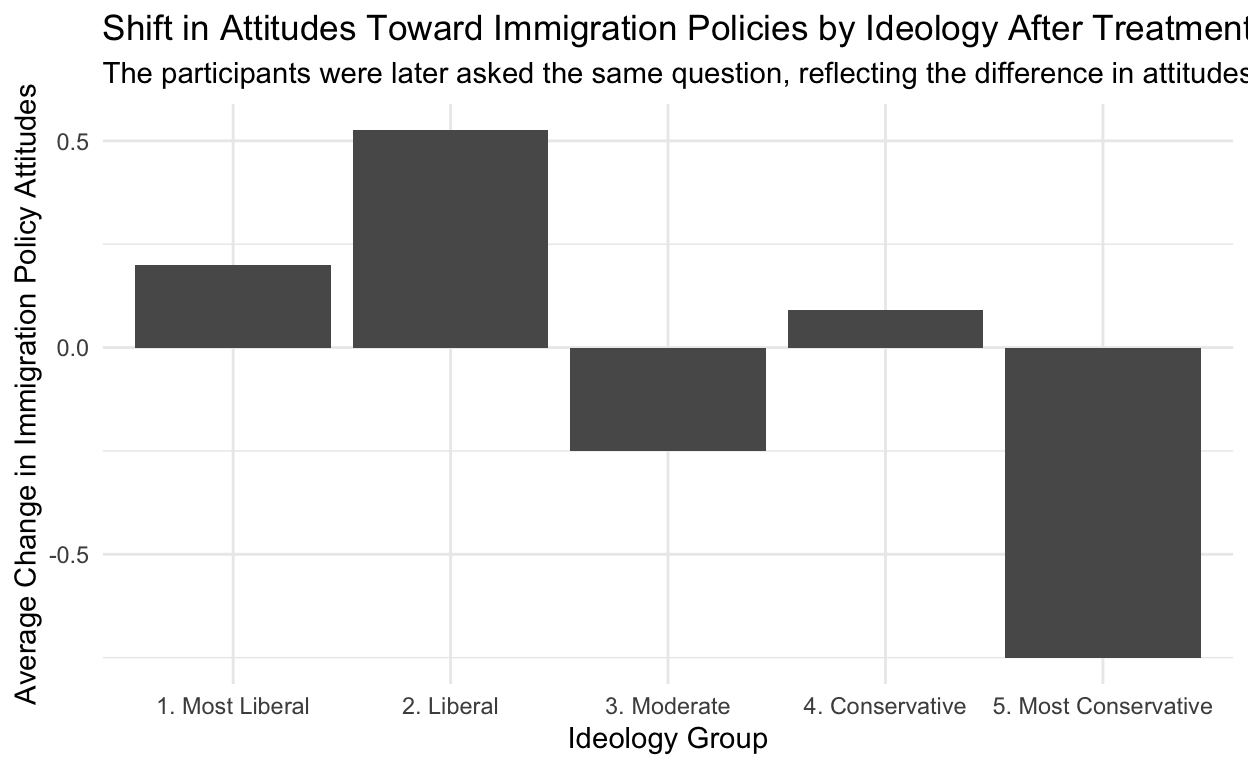
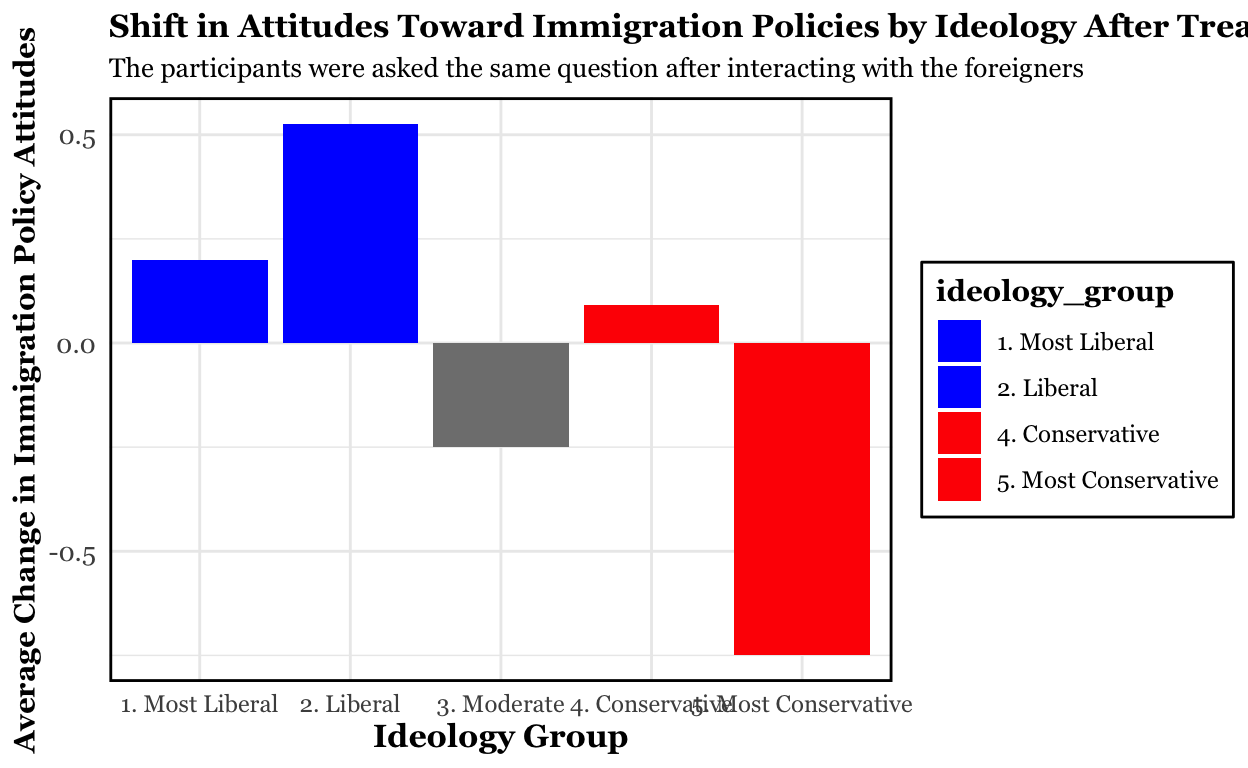
final project updates

diff --git a/index.html b/index.html
@@ -115,7 +115,7 @@ code span.wa { color: #5e5e5e; font-style: italic; } /* Warning */
   <!--/radix_placeholder_rmarkdown_metadata-->
   
   <script type="text/json" id="radix-resource-manifest">
-  {"type":"character","attributes":{},"value":["index_files/anchor-4.2.2/anchor.min.js","index_files/bowser-1.9.3/bowser.min.js","index_files/distill-2.2.21/template.v2.js","index_files/figure-html5/unnamed-chunk-10-1.png","index_files/figure-html5/unnamed-chunk-4-1.png","index_files/figure-html5/unnamed-chunk-5-1.png","index_files/figure-html5/unnamed-chunk-6-1.png","index_files/figure-html5/unnamed-chunk-7-1.png","index_files/figure-html5/unnamed-chunk-8-1.png","index_files/figure-html5/unnamed-chunk-9-1.png","index_files/header-attrs-2.17/header-attrs.js","index_files/header-attrs-2.28/header-attrs.js","index_files/header-attrs-2.29/header-attrs.js","index_files/jquery-3.6.0/jquery-3.6.0.js","index_files/jquery-3.6.0/jquery-3.6.0.min.js","index_files/jquery-3.6.0/jquery-3.6.0.min.map","index_files/popper-2.6.0/popper.min.js","index_files/tippy-6.2.7/tippy-bundle.umd.min.js","index_files/tippy-6.2.7/tippy-light-border.css","index_files/tippy-6.2.7/tippy.css","index_files/tippy-6.2.7/tippy.umd.min.js","index_files/webcomponents-2.0.0/webcomponents.js"]}
+  {"type":"character","attributes":{},"value":["index_files/anchor-4.2.2/anchor.min.js","index_files/bowser-1.9.3/bowser.min.js","index_files/distill-2.2.21/template.v2.js","index_files/figure-html5/unnamed-chunk-10-1.png","index_files/figure-html5/unnamed-chunk-14-1.png","index_files/figure-html5/unnamed-chunk-4-1.png","index_files/figure-html5/unnamed-chunk-5-1.png","index_files/figure-html5/unnamed-chunk-6-1.png","index_files/figure-html5/unnamed-chunk-7-1.png","index_files/figure-html5/unnamed-chunk-8-1.png","index_files/figure-html5/unnamed-chunk-9-1.png","index_files/header-attrs-2.17/header-attrs.js","index_files/header-attrs-2.28/header-attrs.js","index_files/header-attrs-2.29/header-attrs.js","index_files/jquery-3.6.0/jquery-3.6.0.js","index_files/jquery-3.6.0/jquery-3.6.0.min.js","index_files/jquery-3.6.0/jquery-3.6.0.min.map","index_files/popper-2.6.0/popper.min.js","index_files/tippy-6.2.7/tippy-bundle.umd.min.js","index_files/tippy-6.2.7/tippy-light-border.css","index_files/tippy-6.2.7/tippy.css","index_files/tippy-6.2.7/tippy.umd.min.js","index_files/webcomponents-2.0.0/webcomponents.js"]}
   </script>
   <!--radix_placeholder_navigation_in_header-->
   <!--/radix_placeholder_navigation_in_header-->
@@ -1717,37 +1717,70 @@ code span.wa { color: #5e5e5e; font-style: italic; } /* Warning */
 <p>My research observed how political ideologies are associated with attitudes toward immigration policies, specifically looking how the level of attitude shifts regarding these policies differed depending on the political demographic of the participant. My hypothesis is that the participants with more conservative ideologies will be initially less likely to support increasing the number of immigrants allowed in the country, but after interacting with foreigners they will have a greater positive shift in attitudes towards pro-immigration policies compared to those with democratic views. I expect that people who are more liberal will have a smaller shift after this interaction, as they already tend to favor pro-immigration policies.</p>
 <p>This is significant, particularly in our country where immigration is a very politically charged topic, as it may seek to explain how individuals’ beliefs and values evolve, while also bridging the current nation-wide political divide. By exploring how there may be some common ground between Conservatives and Liberals, this research may be able to help dismantle political polarization and enable greater opportunities for healthy discourse that can offer potential solutions to current policy debates, in this case regarding immigration.</p>
 <h2 id="data">Data</h2>
-<p>The data for this research comes from a randomized field experiment conducted by Harvard Professor, Ryan Enos. He focused on individuals from overwhelmingly white communities who rode the communal rail line, and explored how exposure to demographic change affected their political views. His study was published in the article “Causal Effect of Intergroup Contact on Exclusionary Attitudes.” In the experiment, the trains were randomly assigned to either the “Treated group” or the “Control group,” where the treatment involved the presence of two native Spanish-speaking confederates meant to simulate the predicted demographic change in the United States.</p>
+<p>The data for this research comes from a randomized field experiment conducted by Harvard Professor, Ryan Enos. He focused on individuals from overwhelmingly white communities who rode the communal train and explored how exposure to demographic change affected their political views. His study was published in the article “Causal Effect of Intergroup Contact on Exclusionary Attitudes.” In the experiment, the trains were randomly assigned to either the “Treated group” or the “Control group,” where the treatment involved the presence of two native Spanish-speaking confederates meant to simulate the predicted demographic change in the United States. Those who were in the control group never encountered the confederates.</p>
 <p>The independent variable is the political ideologies of the participants, measured by the survey data for each participant from the experiment. Political ideologies are likely to impact individuals’ pre-existing beliefs, which would set a baseline for their attitudes towards immigration before treatment, and may impact their responses to treatment. Through this method, we can determine how the treatment effects differ depending on the participants’ political ideology.</p>
 <p>The dependent variable, the participants’ shift in attitudes regarding immigration policies, is measured using a survey question, on a 5 point scale, before and after the treatment. Participants were asked whether or not the number of immigrants in the country should increase or decrease, where 1 indicates the participant believes the number of immigrants should increase and 5 indicates the participant believes the number of immigrants should decrease. The attitude shift of each ideology group is represented by the difference between their responses before and after treatment.</p>
 <div class="layout-chunk" data-layout="l-body">
 <div class="sourceCode">
 <pre class="sourceCode r"><code class="sourceCode r"><span><span class='va'>pre_treatment_plot</span> <span class='op'>&lt;-</span> <span class='fu'><a href='https://ggplot2.tidyverse.org/reference/ggplot.html'>ggplot</a></span><span class='op'>(</span><span class='va'>pre_treatment</span>, <span class='fu'><a href='https://ggplot2.tidyverse.org/reference/aes.html'>aes</a></span><span class='op'>(</span>x <span class='op'>=</span> <span class='va'>ideology_group</span>,</span>
-<span>                                               y <span class='op'>=</span> <span class='va'>pre_treatment</span><span class='op'>)</span><span class='op'>)</span> <span class='op'>+</span></span>
+<span>                                               y <span class='op'>=</span> <span class='va'>pre_treatment</span>,</span>
+<span>                                               fill <span class='op'>=</span> <span class='va'>ideology_group</span><span class='op'>)</span><span class='op'>)</span> <span class='op'>+</span></span>
 <span>  <span class='fu'><a href='https://ggplot2.tidyverse.org/reference/geom_bar.html'>geom_bar</a></span><span class='op'>(</span>stat <span class='op'>=</span> <span class='st'>"identity"</span><span class='op'>)</span> <span class='op'>+</span></span>
+<span>  <span class='fu'><a href='https://ggplot2.tidyverse.org/reference/scale_manual.html'>scale_fill_manual</a></span><span class='op'>(</span>values <span class='op'>=</span> <span class='fu'><a href='https://rdrr.io/r/base/c.html'>c</a></span><span class='op'>(</span><span class='st'>"1. Most Liberal"</span> <span class='op'>=</span> <span class='st'>"blue"</span>,</span>
+<span>                               <span class='st'>"2. Liberal"</span> <span class='op'>=</span> <span class='st'>"blue"</span>,</span>
+<span>                               <span class='st'>"4. Conservative"</span> <span class='op'>=</span> <span class='st'>"red"</span>,</span>
+<span>                               <span class='st'>"5. Most Conservative"</span> <span class='op'>=</span> <span class='st'>"red"</span><span class='op'>)</span><span class='op'>)</span> <span class='op'>+</span></span>
 <span>  <span class='fu'><a href='https://ggplot2.tidyverse.org/reference/labs.html'>labs</a></span><span class='op'>(</span>title <span class='op'>=</span> <span class='st'>"Attitudes Toward Immigration Policies by Ideology Before Treatment"</span>,</span>
 <span>       x <span class='op'>=</span> <span class='st'>"Ideology Group"</span>,</span>
 <span>       y <span class='op'>=</span> <span class='st'>"Attitudes Towards Immigration in the Country</span></span>
 <span><span class='st'>       (1 = Increase, 5 = Decrease)"</span>,</span>
-<span>       subtitle <span class='op'>=</span> <span class='st'>"Participants Were Asked if the Number of Immigrants in the Country Should Increase or Decrease"</span><span class='op'>)</span> <span class='op'>+</span></span>
-<span>  <span class='fu'><a href='https://ggplot2.tidyverse.org/reference/ggtheme.html'>theme_minimal</a></span><span class='op'>(</span><span class='op'>)</span></span>
+<span>       subtitle <span class='op'>=</span> <span class='st'>"Participants were asked if the number of immigrants in the country should increase or decrease"</span><span class='op'>)</span> <span class='op'>+</span></span>
+<span>  <span class='fu'><a href='https://ggplot2.tidyverse.org/reference/ggtheme.html'>theme_minimal</a></span><span class='op'>(</span><span class='op'>)</span> <span class='op'>+</span></span>
+<span>    <span class='fu'><a href='https://ggplot2.tidyverse.org/reference/theme.html'>theme</a></span><span class='op'>(</span></span>
+<span>    axis.text.x <span class='op'>=</span> <span class='fu'><a href='https://ggplot2.tidyverse.org/reference/element.html'>element_text</a></span><span class='op'>(</span>size <span class='op'>=</span> <span class='fl'>9</span>, family <span class='op'>=</span> <span class='st'>"Georgia"</span><span class='op'>)</span>,</span>
+<span>    axis.text.y <span class='op'>=</span> <span class='fu'><a href='https://ggplot2.tidyverse.org/reference/element.html'>element_text</a></span><span class='op'>(</span>size <span class='op'>=</span> <span class='fl'>10</span>, family <span class='op'>=</span> <span class='st'>"Georgia"</span><span class='op'>)</span>,</span>
+<span>    axis.title.x <span class='op'>=</span> <span class='fu'><a href='https://ggplot2.tidyverse.org/reference/element.html'>element_text</a></span><span class='op'>(</span>size <span class='op'>=</span> <span class='fl'>12</span>, face <span class='op'>=</span> <span class='st'>"bold"</span>, family <span class='op'>=</span> <span class='st'>"Georgia"</span><span class='op'>)</span>,</span>
+<span>    axis.title.y <span class='op'>=</span> <span class='fu'><a href='https://ggplot2.tidyverse.org/reference/element.html'>element_text</a></span><span class='op'>(</span>size <span class='op'>=</span> <span class='fl'>11</span>, face <span class='op'>=</span> <span class='st'>"bold"</span>, family <span class='op'>=</span> <span class='st'>"Georgia"</span><span class='op'>)</span>,</span>
+<span>    plot.title <span class='op'>=</span> <span class='fu'><a href='https://ggplot2.tidyverse.org/reference/element.html'>element_text</a></span><span class='op'>(</span>size <span class='op'>=</span> <span class='fl'>13</span>, face <span class='op'>=</span> <span class='st'>"bold"</span>, family <span class='op'>=</span> <span class='st'>"Georgia"</span><span class='op'>)</span>,</span>
+<span>    plot.subtitle <span class='op'>=</span> <span class='fu'><a href='https://ggplot2.tidyverse.org/reference/element.html'>element_text</a></span><span class='op'>(</span>size <span class='op'>=</span> <span class='fl'>10</span>, family <span class='op'>=</span> <span class='st'>"Georgia"</span><span class='op'>)</span>,</span>
+<span>    legend.title <span class='op'>=</span> <span class='fu'><a href='https://ggplot2.tidyverse.org/reference/element.html'>element_text</a></span><span class='op'>(</span>size <span class='op'>=</span> <span class='fl'>11</span>, face <span class='op'>=</span> <span class='st'>"bold"</span>, family <span class='op'>=</span> <span class='st'>"Georgia"</span><span class='op'>)</span>,</span>
+<span>    legend.text <span class='op'>=</span> <span class='fu'><a href='https://ggplot2.tidyverse.org/reference/element.html'>element_text</a></span><span class='op'>(</span>size <span class='op'>=</span> <span class='fl'>9</span>, family <span class='op'>=</span> <span class='st'>"Georgia"</span><span class='op'>)</span>,</span>
+<span>    panel.border <span class='op'>=</span> <span class='fu'><a href='https://ggplot2.tidyverse.org/reference/element.html'>element_rect</a></span><span class='op'>(</span>color <span class='op'>=</span> <span class='st'>"black"</span>, fill <span class='op'>=</span> <span class='cn'>NA</span>, size <span class='op'>=</span> <span class='fl'>1</span><span class='op'>)</span>,</span>
+<span>    legend.background <span class='op'>=</span> <span class='fu'><a href='https://ggplot2.tidyverse.org/reference/element.html'>element_rect</a></span><span class='op'>(</span>color <span class='op'>=</span> <span class='st'>"black"</span>, fill <span class='op'>=</span> <span class='cn'>NA</span><span class='op'>)</span></span>
+<span>  <span class='op'>)</span></span>
 <span><span class='va'>pre_treatment_plot</span></span></code></pre>
 </div>
 <p><img src="index_files/figure-html5/unnamed-chunk-9-1.png" width="624" /></p>
 </div>
-<p>This table shows the relationship between the political ideologies of the participants and how they felt about whether immigrants in the country should increase or decrease before treatment. From this table, the data indicates that the participants who were most conservative had the most negative views towards immigration in the country, whereas the liberal participants had more positive views towards immigration. This is to be expected, as these beliefs align with the traditional values of Conservative and Liberal political ideologies. My research explores how the differing political ideologies will result in different levels of shifts in attitudes.</p>
+<p>This table shows the relationship between the political ideologies of the participants and how they felt about whether immigrants in the country should increase or decrease before treatment. From this table, the data indicates that the participants who were most conservative had the most negative views towards immigration in the country, whereas the liberal participants had more positive views towards immigration. This is to be expected, as these beliefs align with the traditional values of Conservative and Liberal political ideologies. My research explores how the differing political ideologies will result in different levels of shifts in attitudes after recieving treatment.</p>
 <h2 id="results-1">Results</h2>
-<h2 id="participants-shifts-in-attitudes-toward-immigration-policies-after-treatment">Participants’ Shifts in Attitudes Toward Immigration Policies After Treatment</h2>
 <div class="layout-chunk" data-layout="l-body">
 <div class="sourceCode">
 <pre class="sourceCode r"><code class="sourceCode r"><span><span class='va'>ideology_shift_plot</span> <span class='op'>&lt;-</span> <span class='fu'><a href='https://ggplot2.tidyverse.org/reference/ggplot.html'>ggplot</a></span><span class='op'>(</span><span class='va'>average_change</span>, <span class='fu'><a href='https://ggplot2.tidyverse.org/reference/aes.html'>aes</a></span><span class='op'>(</span>x <span class='op'>=</span> <span class='va'>ideology_group</span>, </span>
-<span>                                            y <span class='op'>=</span> <span class='va'>average_change</span><span class='op'>)</span><span class='op'>)</span> <span class='op'>+</span></span>
+<span>                                            y <span class='op'>=</span> <span class='va'>average_change</span>,</span>
+<span>                                            fill <span class='op'>=</span> <span class='va'>ideology_group</span><span class='op'>)</span><span class='op'>)</span> <span class='op'>+</span></span>
 <span>  <span class='fu'><a href='https://ggplot2.tidyverse.org/reference/geom_bar.html'>geom_bar</a></span><span class='op'>(</span>stat <span class='op'>=</span> <span class='st'>"identity"</span><span class='op'>)</span> <span class='op'>+</span></span>
+<span>  <span class='fu'><a href='https://ggplot2.tidyverse.org/reference/scale_manual.html'>scale_fill_manual</a></span><span class='op'>(</span>values <span class='op'>=</span> <span class='fu'><a href='https://rdrr.io/r/base/c.html'>c</a></span><span class='op'>(</span><span class='st'>"1. Most Liberal"</span> <span class='op'>=</span> <span class='st'>"blue"</span>,</span>
+<span>                               <span class='st'>"2. Liberal"</span> <span class='op'>=</span> <span class='st'>"blue"</span>,</span>
+<span>                               <span class='st'>"4. Conservative"</span> <span class='op'>=</span> <span class='st'>"red"</span>,</span>
+<span>                               <span class='st'>"5. Most Conservative"</span> <span class='op'>=</span> <span class='st'>"red"</span><span class='op'>)</span><span class='op'>)</span> <span class='op'>+</span></span>
 <span>   <span class='fu'><a href='https://ggplot2.tidyverse.org/reference/labs.html'>labs</a></span><span class='op'>(</span>title <span class='op'>=</span> <span class='st'>"Shift in Attitudes Toward Immigration Policies by Ideology After Treatment"</span>,</span>
 <span>       x <span class='op'>=</span> <span class='st'>"Ideology Group"</span>,</span>
 <span>       y <span class='op'>=</span> <span class='st'>"Average Change in Immigration Policy Attitudes"</span>,</span>
-<span>       subtitle <span class='op'>=</span> <span class='st'>"The participants were later asked the same question, reflecting the difference in attitudes before and after interacting with the foreigners"</span><span class='op'>)</span> <span class='op'>+</span></span>
-<span>  <span class='fu'><a href='https://ggplot2.tidyverse.org/reference/ggtheme.html'>theme_minimal</a></span><span class='op'>(</span><span class='op'>)</span></span>
+<span>       subtitle <span class='op'>=</span> <span class='st'>"The participants were asked the same question after interacting with the foreigners"</span><span class='op'>)</span> <span class='op'>+</span></span>
+<span>  <span class='fu'><a href='https://ggplot2.tidyverse.org/reference/ggtheme.html'>theme_minimal</a></span><span class='op'>(</span><span class='op'>)</span> <span class='op'>+</span></span>
+<span>  <span class='fu'><a href='https://ggplot2.tidyverse.org/reference/theme.html'>theme</a></span><span class='op'>(</span></span>
+<span>    axis.text.x <span class='op'>=</span> <span class='fu'><a href='https://ggplot2.tidyverse.org/reference/element.html'>element_text</a></span><span class='op'>(</span>size <span class='op'>=</span> <span class='fl'>9</span>, family <span class='op'>=</span> <span class='st'>"Georgia"</span><span class='op'>)</span>,</span>
+<span>    axis.text.y <span class='op'>=</span> <span class='fu'><a href='https://ggplot2.tidyverse.org/reference/element.html'>element_text</a></span><span class='op'>(</span>size <span class='op'>=</span> <span class='fl'>10</span>, family <span class='op'>=</span> <span class='st'>"Georgia"</span><span class='op'>)</span>,</span>
+<span>    axis.title.x <span class='op'>=</span> <span class='fu'><a href='https://ggplot2.tidyverse.org/reference/element.html'>element_text</a></span><span class='op'>(</span>size <span class='op'>=</span> <span class='fl'>12</span>, face <span class='op'>=</span> <span class='st'>"bold"</span>, family <span class='op'>=</span> <span class='st'>"Georgia"</span><span class='op'>)</span>,</span>
+<span>    axis.title.y <span class='op'>=</span> <span class='fu'><a href='https://ggplot2.tidyverse.org/reference/element.html'>element_text</a></span><span class='op'>(</span>size <span class='op'>=</span> <span class='fl'>11</span>, face <span class='op'>=</span> <span class='st'>"bold"</span>, family <span class='op'>=</span> <span class='st'>"Georgia"</span><span class='op'>)</span>,</span>
+<span>    plot.title <span class='op'>=</span> <span class='fu'><a href='https://ggplot2.tidyverse.org/reference/element.html'>element_text</a></span><span class='op'>(</span>size <span class='op'>=</span> <span class='fl'>12</span>, face <span class='op'>=</span> <span class='st'>"bold"</span>, family <span class='op'>=</span> <span class='st'>"Georgia"</span><span class='op'>)</span>,</span>
+<span>    plot.subtitle <span class='op'>=</span> <span class='fu'><a href='https://ggplot2.tidyverse.org/reference/element.html'>element_text</a></span><span class='op'>(</span>size <span class='op'>=</span> <span class='fl'>10</span>, family <span class='op'>=</span> <span class='st'>"Georgia"</span><span class='op'>)</span>,</span>
+<span>    legend.title <span class='op'>=</span> <span class='fu'><a href='https://ggplot2.tidyverse.org/reference/element.html'>element_text</a></span><span class='op'>(</span>size <span class='op'>=</span> <span class='fl'>11</span>, face <span class='op'>=</span> <span class='st'>"bold"</span>, family <span class='op'>=</span> <span class='st'>"Georgia"</span><span class='op'>)</span>,</span>
+<span>    legend.text <span class='op'>=</span> <span class='fu'><a href='https://ggplot2.tidyverse.org/reference/element.html'>element_text</a></span><span class='op'>(</span>size <span class='op'>=</span> <span class='fl'>9</span>, family <span class='op'>=</span> <span class='st'>"Georgia"</span><span class='op'>)</span>,</span>
+<span>    panel.border <span class='op'>=</span> <span class='fu'><a href='https://ggplot2.tidyverse.org/reference/element.html'>element_rect</a></span><span class='op'>(</span>color <span class='op'>=</span> <span class='st'>"black"</span>, fill <span class='op'>=</span> <span class='cn'>NA</span>, size <span class='op'>=</span> <span class='fl'>1</span><span class='op'>)</span>,</span>
+<span>    legend.background <span class='op'>=</span> <span class='fu'><a href='https://ggplot2.tidyverse.org/reference/element.html'>element_rect</a></span><span class='op'>(</span>color <span class='op'>=</span> <span class='st'>"black"</span>, fill <span class='op'>=</span> <span class='cn'>NA</span><span class='op'>)</span></span>
+<span>  <span class='op'>)</span></span>
 <span><span class='va'>ideology_shift_plot</span></span></code></pre>
 </div>
 <p><img src="index_files/figure-html5/unnamed-chunk-10-1.png" width="624" /></p>
@@ -1769,7 +1802,75 @@ code span.wa { color: #5e5e5e; font-style: italic; } /* Warning */
 4 ideology_group4. Conservative   3.11e-16     0.270  1.15e-15 1.00   
 5 ideology_group5. Most Conserv… -1.12e+ 0     0.347 -3.24e+ 0 0.00157</code></pre>
 </div>
-<div class="sourceCode" id="cb7"><pre class="sourceCode r distill-force-highlighting-css"><code class="sourceCode r"></code></pre></div>
+<div class="layout-chunk" data-layout="l-body">
+<div class="sourceCode">
+<pre class="sourceCode r"><code class="sourceCode r"><span><span class='va'>trains</span> <span class='op'>&lt;-</span> <span class='va'>trains</span> <span class='op'>|&gt;</span></span>
+<span>  <span class='fu'><a href='https://dplyr.tidyverse.org/reference/mutate.html'>mutate</a></span><span class='op'>(</span>binary_variable <span class='op'>=</span> <span class='fu'><a href='https://dplyr.tidyverse.org/reference/case_when.html'>case_when</a></span><span class='op'>(</span></span>
+<span>    <span class='va'>ideology_group</span> <span class='op'><a href='https://rdrr.io/r/base/match.html'>%in%</a></span> <span class='fu'><a href='https://rdrr.io/r/base/c.html'>c</a></span><span class='op'>(</span><span class='st'>"1. Most Liberal"</span>, <span class='st'>"2. Liberal"</span><span class='op'>)</span> <span class='op'>~</span> <span class='fl'>0</span>,</span>
+<span>    <span class='va'>ideology_group</span> <span class='op'><a href='https://rdrr.io/r/base/match.html'>%in%</a></span> <span class='fu'><a href='https://rdrr.io/r/base/c.html'>c</a></span><span class='op'>(</span><span class='st'>"4. Conservative"</span>, <span class='st'>"5. Most Conservative"</span><span class='op'>)</span> <span class='op'>~</span> <span class='fl'>1</span></span>
+<span>  <span class='op'>)</span><span class='op'>)</span> <span class='op'>|&gt;</span></span>
+<span>  <span class='fu'><a href='https://dplyr.tidyverse.org/reference/filter.html'>filter</a></span><span class='op'>(</span><span class='op'>!</span><span class='va'>ideology_group</span> <span class='op'><a href='https://rdrr.io/r/base/match.html'>%in%</a></span> <span class='fu'><a href='https://rdrr.io/r/base/c.html'>c</a></span><span class='op'>(</span><span class='st'>"3. Moderate"</span><span class='op'>)</span><span class='op'>)</span></span>
+<span><span class='va'>trains</span></span></code></pre>
+</div>
+<pre><code># A tibble: 83 × 17
+     age  male income white college usborn treatment ideology
+   &lt;dbl&gt; &lt;dbl&gt;  &lt;dbl&gt; &lt;dbl&gt;   &lt;dbl&gt;  &lt;dbl&gt;     &lt;dbl&gt;    &lt;dbl&gt;
+ 1    34     0 105000     1       1      0         1        4
+ 2    63     1 135000     1       1      1         1        2
+ 3    45     1 300000     1       1      1         1        4
+ 4    55     1 135000     1       1      1         0        2
+ 5    37     0  87500     1       1      1         1        5
+ 6    53     0  87500     1       0      1         0        5
+ 7    36     1 135000     1       1      1         1        4
+ 8    42     1 135000     1       1      1         1        4
+ 9    50     1 250000     1       1      1         1        4
+10    24     1 105000     1       1      1         1        4
+# ℹ 73 more rows
+# ℹ 9 more variables: numberim.pre &lt;dbl&gt;, numberim.post &lt;dbl&gt;,
+#   remain.pre &lt;dbl&gt;, remain.post &lt;dbl&gt;, english.pre &lt;dbl&gt;,
+#   english.post &lt;dbl&gt;, ideology_group &lt;chr&gt;, average_change &lt;dbl&gt;,
+#   binary_variable &lt;dbl&gt;</code></pre>
+</div>
+<div class="layout-chunk" data-layout="l-body">
+<div class="sourceCode">
+<pre class="sourceCode r"><code class="sourceCode r"><span><span class='va'>reg1</span> <span class='op'>&lt;-</span> <span class='fu'><a href='https://rdrr.io/r/stats/lm.html'>lm</a></span><span class='op'>(</span><span class='va'>average_change</span> <span class='op'>~</span> <span class='va'>binary_variable</span>, data <span class='op'>=</span> <span class='va'>trains</span><span class='op'>)</span></span>
+<span><span class='va'>reg1_table</span> <span class='op'>&lt;-</span> <span class='fu'><a href='https://generics.r-lib.org/reference/tidy.html'>tidy</a></span><span class='op'>(</span><span class='va'>reg1</span><span class='op'>)</span></span>
+<span><span class='va'>reg1_table</span></span></code></pre>
+</div>
+<pre><code># A tibble: 2 × 5
+  term            estimate std.error statistic p.value
+  &lt;chr&gt;              &lt;dbl&gt;     &lt;dbl&gt;     &lt;dbl&gt;   &lt;dbl&gt;
+1 (Intercept)       0.0741     0.115     0.644  0.522 
+2 binary_variable  -0.384      0.195    -1.97   0.0517</code></pre>
+</div>
+<p>To create a clearer analysis that observed how liberals and conservatives as a whole differed in their shifts in attitude, I created a binary variable, in which the “Most Liberal” and “Liberal” groups were assigned to 0, and the “Conservative” and “Most Conservative” groups were assigned to 1. This regression output shows the relationship between these two combined ideology groups and their average change in attitudes towards immigration policies in the United States. The Intercept category represents the average change in attitudes for the reference group, here it refers to the liberal groups. The binary variable category compares the conservative groups to the liberal groups. The binary variable category compares the conservative groups to the liberal groups. The main coefficient for the intercept is 0.07407407, indicating that the average change in attitudes for liberals slightly increased. The main coefficient for the binary variable is -0.38441890, suggesting that in relation to the liberals, on average the conservatives experienced shifts that were about 0.384 less than liberals. Therefore, based on the scale of this experiment, the liberals experienced a slightly negative change in attitudes towards immigration policies, whereas the conservatives had a shift towards more positive attitudes towards immigration policies.</p>
+<div class="layout-chunk" data-layout="l-body">
+<div class="sourceCode">
+<pre class="sourceCode r"><code class="sourceCode r"><span><span class='va'>reg1_plot</span> <span class='op'>&lt;-</span> <span class='fu'><a href='https://ggplot2.tidyverse.org/reference/ggplot.html'>ggplot</a></span><span class='op'>(</span><span class='va'>reg1_table</span>, <span class='fu'><a href='https://ggplot2.tidyverse.org/reference/aes.html'>aes</a></span><span class='op'>(</span>x <span class='op'>=</span> <span class='va'>term</span>, y <span class='op'>=</span> <span class='va'>estimate</span><span class='op'>)</span><span class='op'>)</span> <span class='op'>+</span></span>
+<span>  <span class='fu'><a href='https://ggplot2.tidyverse.org/reference/geom_point.html'>geom_point</a></span><span class='op'>(</span>size <span class='op'>=</span> <span class='fl'>3</span>, color <span class='op'>=</span> <span class='fu'><a href='https://rdrr.io/r/base/c.html'>c</a></span><span class='op'>(</span><span class='st'>"blue"</span>, <span class='st'>"red"</span><span class='op'>)</span><span class='op'>)</span> <span class='op'>+</span></span>
+<span>  <span class='fu'><a href='https://ggplot2.tidyverse.org/reference/geom_linerange.html'>geom_errorbar</a></span><span class='op'>(</span><span class='fu'><a href='https://ggplot2.tidyverse.org/reference/aes.html'>aes</a></span><span class='op'>(</span>ymin <span class='op'>=</span> <span class='va'>estimate</span> <span class='op'>-</span> <span class='va'>std.error</span>, ymax <span class='op'>=</span> <span class='va'>estimate</span> <span class='op'>+</span> <span class='va'>std.error</span><span class='op'>)</span>, width <span class='op'>=</span> <span class='fl'>0.2</span><span class='op'>)</span> <span class='op'>+</span></span>
+<span>  <span class='fu'><a href='https://ggplot2.tidyverse.org/reference/labs.html'>labs</a></span><span class='op'>(</span></span>
+<span>    title <span class='op'>=</span> <span class='st'>"Regression Results"</span>,</span>
+<span>    x <span class='op'>=</span> <span class='st'>"Ideology"</span>,</span>
+<span>    y <span class='op'>=</span> <span class='st'>"Coefficient"</span></span>
+<span>  <span class='op'>)</span> <span class='op'>+</span></span>
+<span>  <span class='fu'><a href='https://ggplot2.tidyverse.org/reference/scale_discrete.html'>scale_x_discrete</a></span><span class='op'>(</span>labels <span class='op'>=</span> <span class='fu'><a href='https://rdrr.io/r/base/c.html'>c</a></span><span class='op'>(</span><span class='st'>"Liberal"</span>, <span class='st'>"Conservative"</span><span class='op'>)</span><span class='op'>)</span> <span class='op'>+</span></span>
+<span>  <span class='fu'><a href='https://ggplot2.tidyverse.org/reference/ggtheme.html'>theme_minimal</a></span><span class='op'>(</span><span class='op'>)</span> <span class='op'>+</span></span>
+<span>  <span class='fu'><a href='https://ggplot2.tidyverse.org/reference/theme.html'>theme</a></span><span class='op'>(</span></span>
+<span>    axis.text.x <span class='op'>=</span> <span class='fu'><a href='https://ggplot2.tidyverse.org/reference/element.html'>element_text</a></span><span class='op'>(</span>size <span class='op'>=</span> <span class='fl'>12</span>, family <span class='op'>=</span> <span class='st'>"Georgia"</span><span class='op'>)</span>,</span>
+<span>    axis.text.y <span class='op'>=</span> <span class='fu'><a href='https://ggplot2.tidyverse.org/reference/element.html'>element_text</a></span><span class='op'>(</span>size <span class='op'>=</span> <span class='fl'>12</span>, family <span class='op'>=</span> <span class='st'>"Georgia"</span><span class='op'>)</span>,</span>
+<span>    axis.title.x <span class='op'>=</span> <span class='fu'><a href='https://ggplot2.tidyverse.org/reference/element.html'>element_text</a></span><span class='op'>(</span>size <span class='op'>=</span> <span class='fl'>13</span>, face <span class='op'>=</span> <span class='st'>"bold"</span>, family <span class='op'>=</span> <span class='st'>"Georgia"</span><span class='op'>)</span>,</span>
+<span>    axis.title.y <span class='op'>=</span> <span class='fu'><a href='https://ggplot2.tidyverse.org/reference/element.html'>element_text</a></span><span class='op'>(</span>size <span class='op'>=</span> <span class='fl'>13</span>, face <span class='op'>=</span> <span class='st'>"bold"</span>, family <span class='op'>=</span> <span class='st'>"Georgia"</span><span class='op'>)</span>,</span>
+<span>    plot.title <span class='op'>=</span> <span class='fu'><a href='https://ggplot2.tidyverse.org/reference/element.html'>element_text</a></span><span class='op'>(</span>size <span class='op'>=</span> <span class='fl'>18</span>, face <span class='op'>=</span> <span class='st'>"bold"</span>, family <span class='op'>=</span> <span class='st'>"Georgia"</span><span class='op'>)</span>,</span>
+<span>    panel.border <span class='op'>=</span> <span class='fu'><a href='https://ggplot2.tidyverse.org/reference/element.html'>element_rect</a></span><span class='op'>(</span>color <span class='op'>=</span> <span class='st'>"black"</span>, fill <span class='op'>=</span> <span class='cn'>NA</span>, size <span class='op'>=</span> <span class='fl'>1</span><span class='op'>)</span></span>
+<span>  <span class='op'>)</span></span>
+<span>  </span>
+<span><span class='va'>reg1_plot</span></span></code></pre>
+</div>
+<p><img src="index_files/figure-html5/unnamed-chunk-14-1.png" width="624" /></p>
+</div>
+<p>This graph reflects a visualization of the regression.</p>
+<div class="sourceCode" id="cb9"><pre class="sourceCode r distill-force-highlighting-css"><code class="sourceCode r"></code></pre></div>
 <!--radix_placeholder_article_footer-->
 <!--/radix_placeholder_article_footer-->
 </div>
